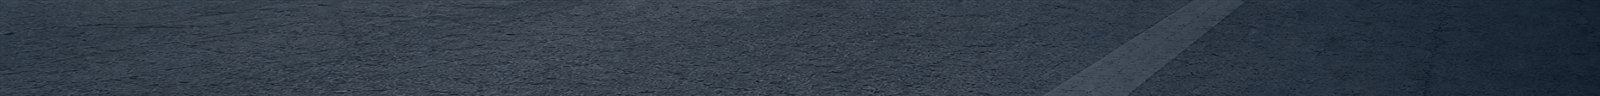
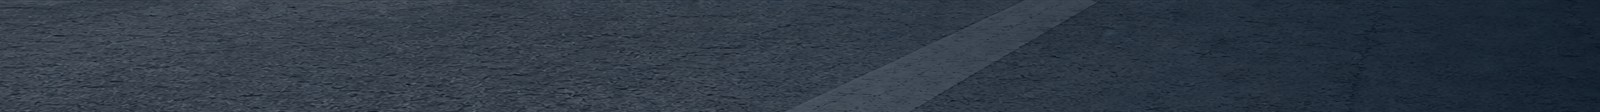
Auto deploy 2026-07-22 11:21:45

diff --git a/index.html b/index.html
@@ -15,7 +15,7 @@
     *{box-sizing:border-box}html,body{position:fixed;inset:0;width:100%;height:100%;min-height:100dvh;margin:0;background:#f1f4f7;overflow:hidden;overscroll-behavior:none}
     #app{position:fixed;inset:0;display:block;width:100vw;height:100vh;height:var(--app-viewport-height,100dvh);border:0;background:#f1f4f7;overscroll-behavior:none}
     body.login-active,body.login-active #app{background:#102f47}
-    body.login-active::after{content:"";position:fixed;z-index:3;left:0;right:0;bottom:0;height:max(42px,env(safe-area-inset-bottom,0px));background:#102f47 url('./assets/es90-login-road-safe-area-v1.jpg') center top/100% 100% no-repeat;pointer-events:none}
+    body.login-active::after{content:"";position:fixed;z-index:3;left:0;right:0;bottom:0;height:max(56px,calc(env(safe-area-inset-bottom,0px) + 18px));background:#102f47 url('./assets/es90-login-road-safe-area-v1.jpg') center top/100% 100% no-repeat;-webkit-mask-image:linear-gradient(to bottom,transparent 0,rgba(0,0,0,.12) 7px,rgba(0,0,0,.55) 17px,#000 30px);mask-image:linear-gradient(to bottom,transparent 0,rgba(0,0,0,.12) 7px,rgba(0,0,0,.55) 17px,#000 30px);pointer-events:none}
     #status{position:fixed;z-index:10;left:50%;bottom:max(16px,env(safe-area-inset-bottom));transform:translateX(-50%);padding:9px 14px;border-radius:999px;background:rgba(17,40,61,.94);color:#fff;font:600 13px/1.2 system-ui,sans-serif;box-shadow:0 4px 18px rgba(0,0,0,.2);opacity:0;pointer-events:none;transition:opacity .2s}
     #status.show{opacity:1}
   </style>

diff --git a/sw.js b/sw.js
@@ -1,4 +1,4 @@
-const CACHE_NAME = 'es90-sales-app-v68';
+const CACHE_NAME = 'es90-sales-app-v69';
 const APP_SHELL = ['./', './index.html', './app.html', './manifest.webmanifest', './icons/es90-icon.svg', './assets/es90-login-cover-lights-on-v3-led.png', './assets/es90-headlight-shape-mask-v1.png', './assets/es90-login-road-safe-area-v1.jpg'];
 
 self.addEventListener('install', event => {
